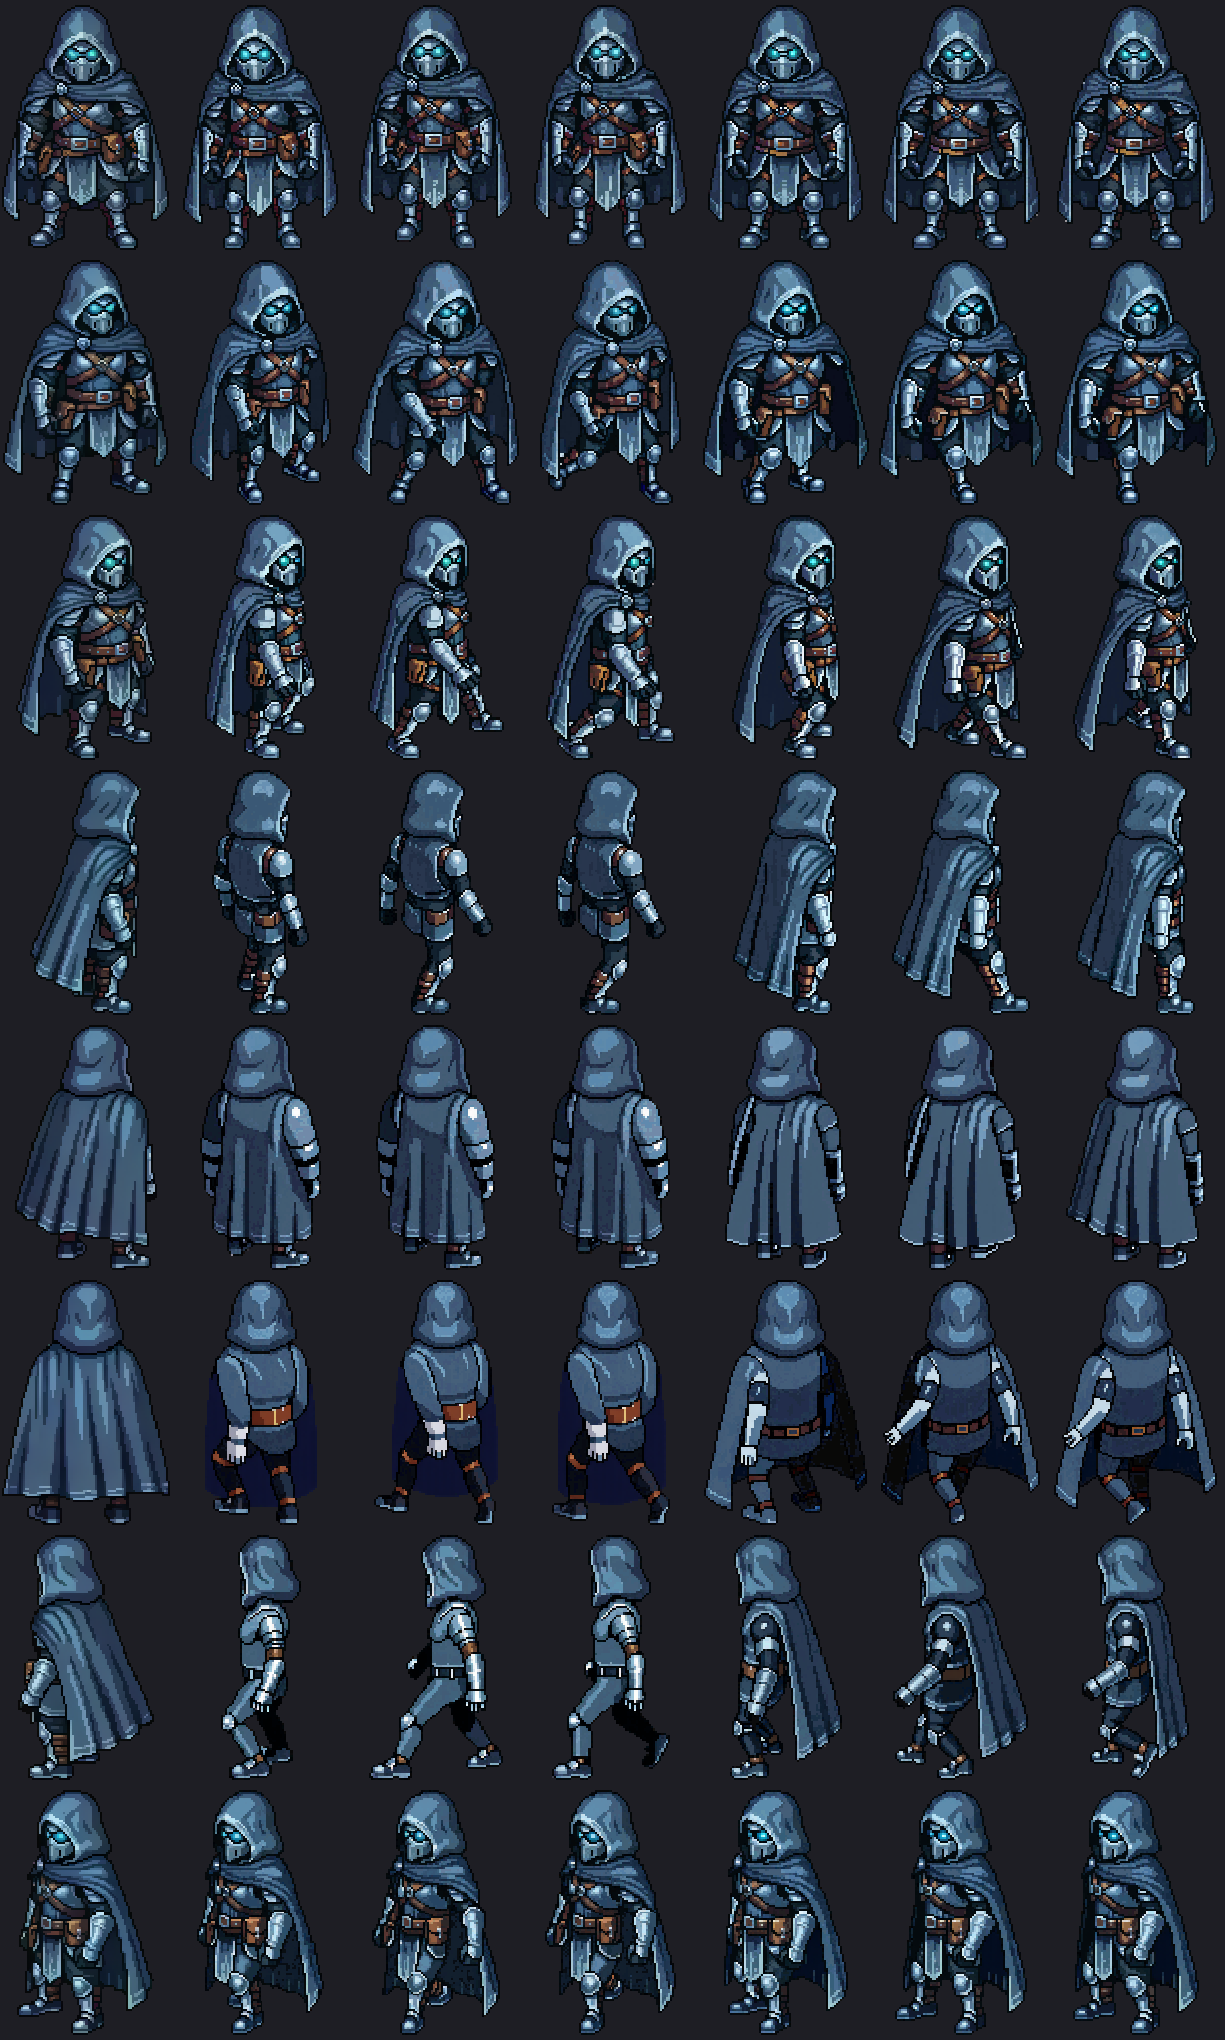
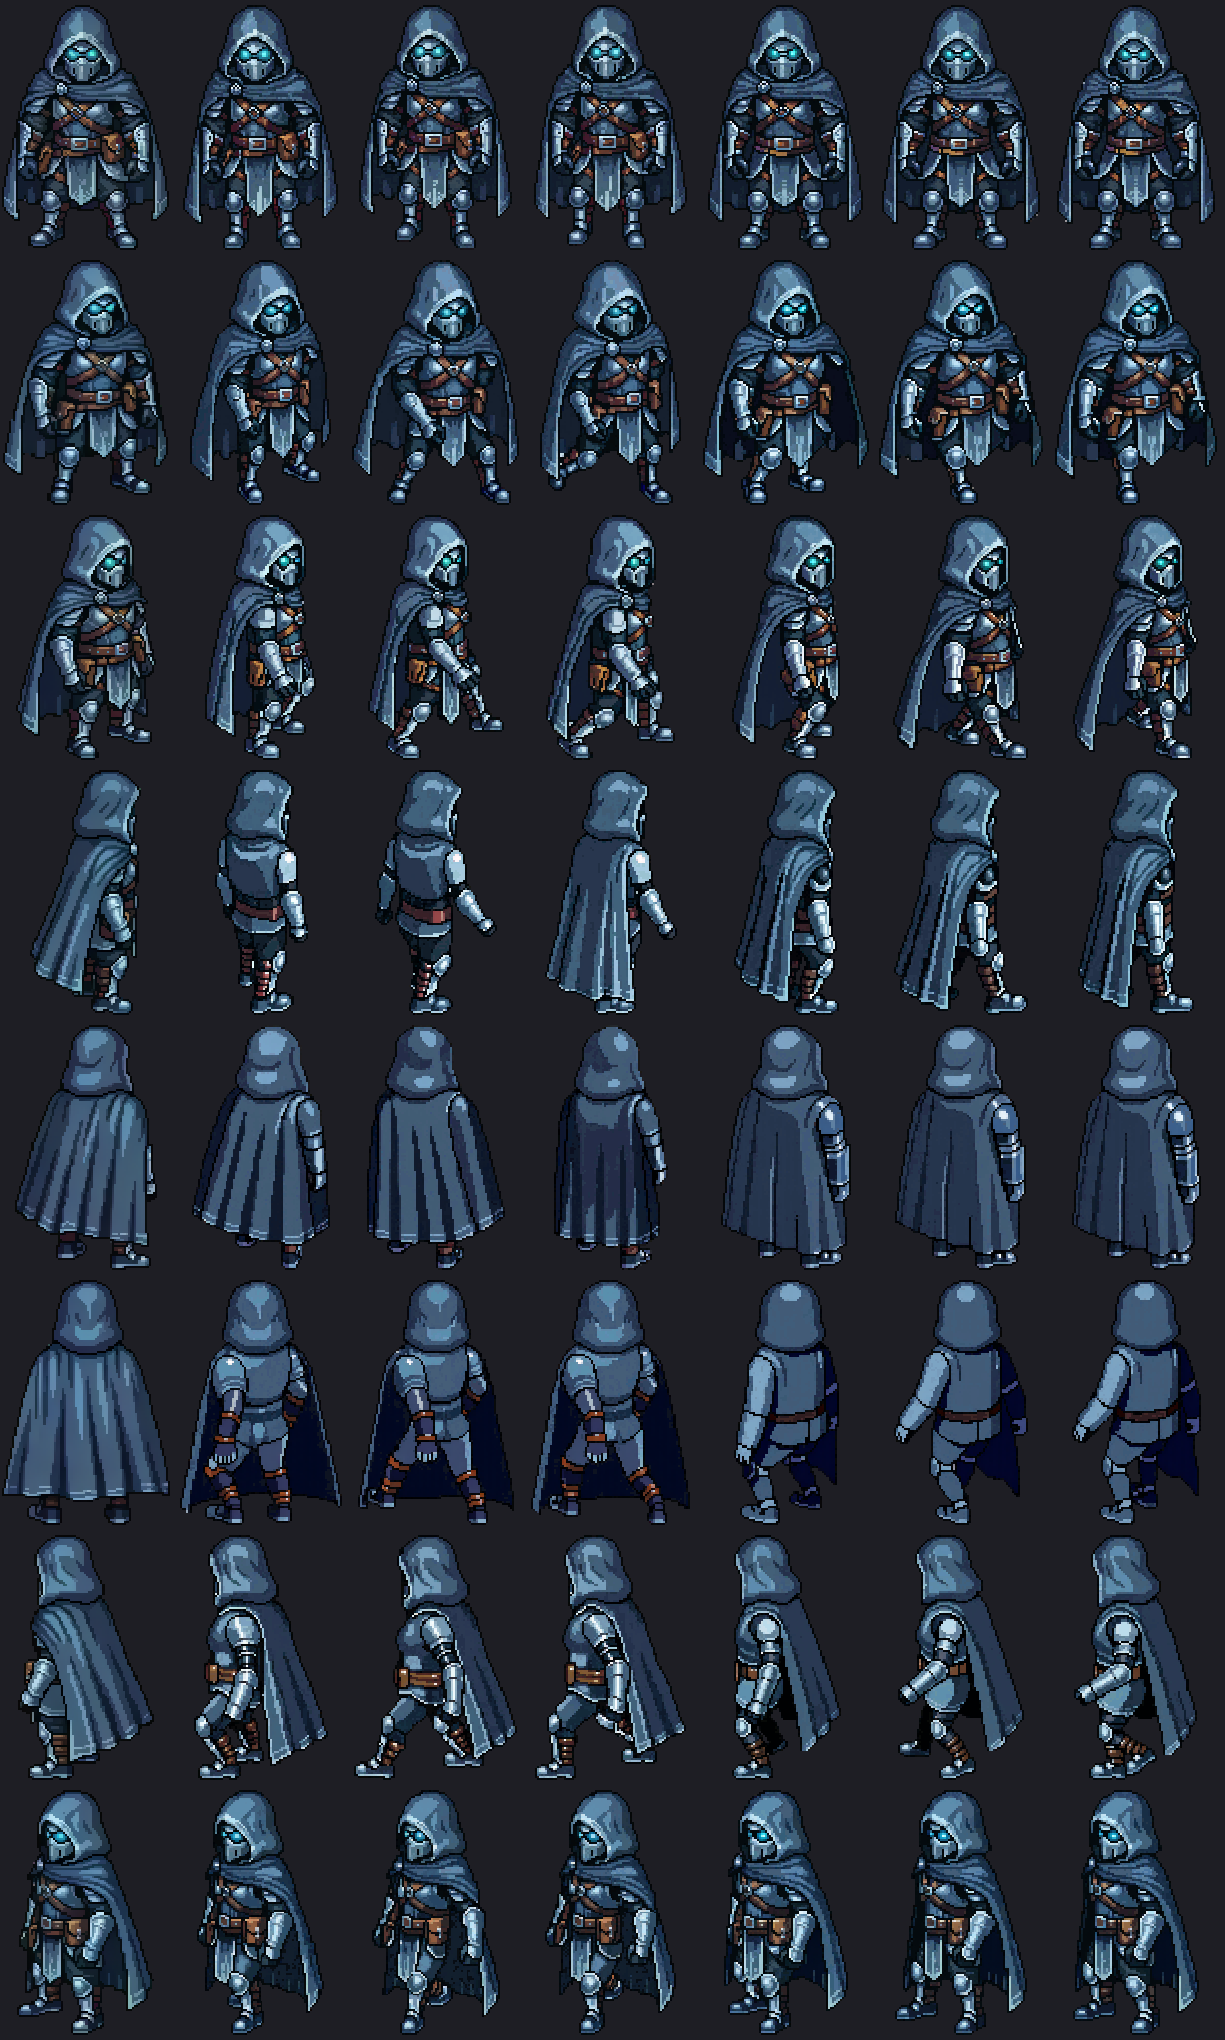
review(FAN-2606): re-review sniper pack after FAN-2845 regeneration
north and west are now identity-stable across their walk loops and pass.
north-east and north-west still drift: north-east has no cloak on move
frames 00-01 and regains it from 02; north-west carries a wide cape plus
orange arm/leg straps on 00-02 and drops both on 03-05. The same split is
present in the regenerated PixelLab source rows, so normalization is not
at fault and the two rows need another art pass.

Refreshes the contact sheet, the per-row zooms and the live 1080p captures
against c1fc219e, renames the zooms from morph_ to row_ now that two of the
four regenerated rows pass, and records the import-cache trap that makes a
capture disagree with the checked-out PNGs.

Changed region(s): [[0.1241, 0.3706, 0.9927, 0.8956]]

diff --git a/tools/build_fan2606_sniper_animation_review.py b/tools/build_fan2606_sniper_animation_review.py
@@ -5,7 +5,7 @@ Renders the acceptance evidence the card asks for, straight from the runtime
 PNGs the game plays (assets/sprites/characters/full_frame/sniper_pixellab):
 
   - fan2606_sniper_8dir_contact.png  8 direction rows x (idle + move 00..05)
-  - fan2606_sniper_morph_<dir>.png   2x zoom rows for the failing directions
+  - fan2606_sniper_row_<dir>.png     2x zoom of each FAN-2845 regenerated row
 
 Deterministic and read-only; nothing is auto-fixed.
 
@@ -26,8 +26,8 @@ OUT_DIR = ROOT / "docs/design/previews"
 # Clockwise runtime order (manifest "directions"); rows read top to bottom.
 DIRECTIONS = ["south", "south-east", "east", "north-east",
               "north", "north-west", "west", "south-west"]
-# Directions whose move row breaks identity mid-loop (see the card evidence).
-MORPH_DIRECTIONS = ["north-east", "north", "north-west", "west"]
+# Rows FAN-2845 regenerated; zoomed because they carry the review decision.
+REVIEW_DIRECTIONS = ["north-east", "north", "north-west", "west"]
 # Tight window on the 512x512 runtime canvas: visible art is 245 px tall,
 # bottom-aligned with 32 px padding and centred on x=255.
 CROP = (170, 230, 345, 485)
@@ -65,10 +65,10 @@ def main() -> int:
     grid([row_frames(direction) for direction in DIRECTIONS]).save(contact)
     print(f"contact sheet: {contact.relative_to(ROOT)}")
 
-    for direction in MORPH_DIRECTIONS:
-        zoom = OUT_DIR / f"fan2606_sniper_morph_{direction.replace('-', '_')}.png"
+    for direction in REVIEW_DIRECTIONS:
+        zoom = OUT_DIR / f"fan2606_sniper_row_{direction.replace('-', '_')}.png"
         grid([row_frames(direction)], scale=2).save(zoom)
-        print(f"morph zoom:    {zoom.relative_to(ROOT)}")
+        print(f"row zoom:      {zoom.relative_to(ROOT)}")
     return 0
 
 

diff --git a/docs/design/systems/animation.md b/docs/design/systems/animation.md
@@ -51,7 +51,20 @@ Animator ownership описан в `docs/process/agent_role_boundaries_and_hando
   directions, i.e. an `art_assets` pass — not a runtime change. Evidence:
   `tools/build_fan2606_sniper_animation_review.py`,
   `tools/capture_fan2606_sniper_walk.gd`, sheets under
-  `docs/design/previews/fan2606_sniper_*`.
+  `docs/design/previews/fan2606_sniper_*` (regenerated per revision; they always
+  describe the pack at the commit that contains them).
+- FAN-2606 re-review after the FAN-2845 regeneration (`c1fc219e`) — `north` and
+  `west` are now clean and accepted; `north-east` and `north-west` still drift
+  and stay rejected. `north-east` loses the cloak on move frames `00`–`01` and
+  regains it from `02`; `north-west` carries a wide cape plus orange arm/leg
+  straps on `00`–`02` and drops both on `03`–`05`. Both breaks are in the new
+  PixelLab source rows (`4b1c980c-…`, `98195326-…`), not in normalization —
+  `assets/sprites/characters/pixellab/sniper/` shows the same split before the
+  512 px pass. Useful calibration from this pack: within a move row the
+  alpha-area max/min ratio is `1.05`–`1.18` for every accepted direction and
+  `1.24` / `1.38` for the two rejected ones, and the largest single-frame area
+  jump is `≤14.3%` accepted vs `20.6%` / `31.4%` rejected. The bands are too
+  close to gate on automatically — treat them as review aids, not a threshold.
 - SCRUM-885 (2026-07-08) performs a focused Knight-only run through the same
   importer using PixelLab character `c1a7d633-7353-4861-aea3-8d937b601cba`
   (`FantasyDisk Knight PixelLab SCRUM-430 no-shield 2026-06-30`). It regenerated
